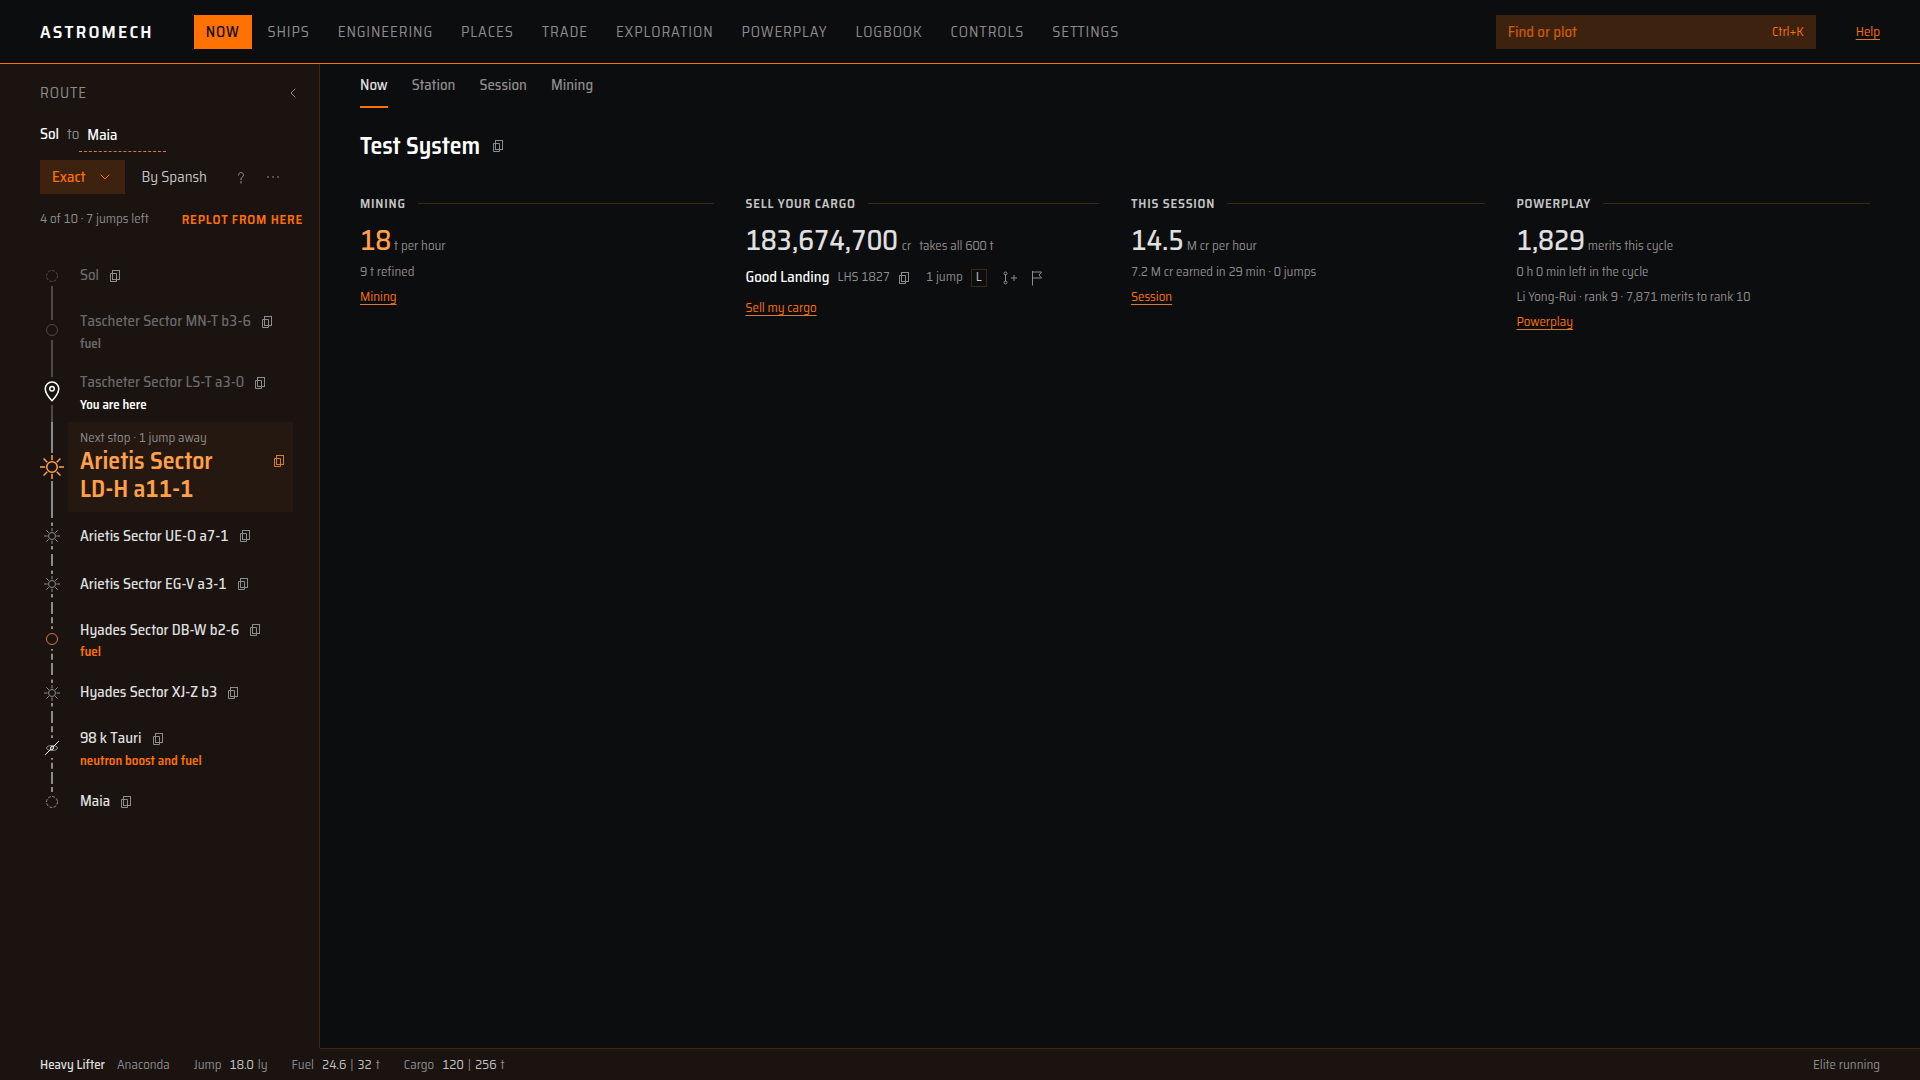
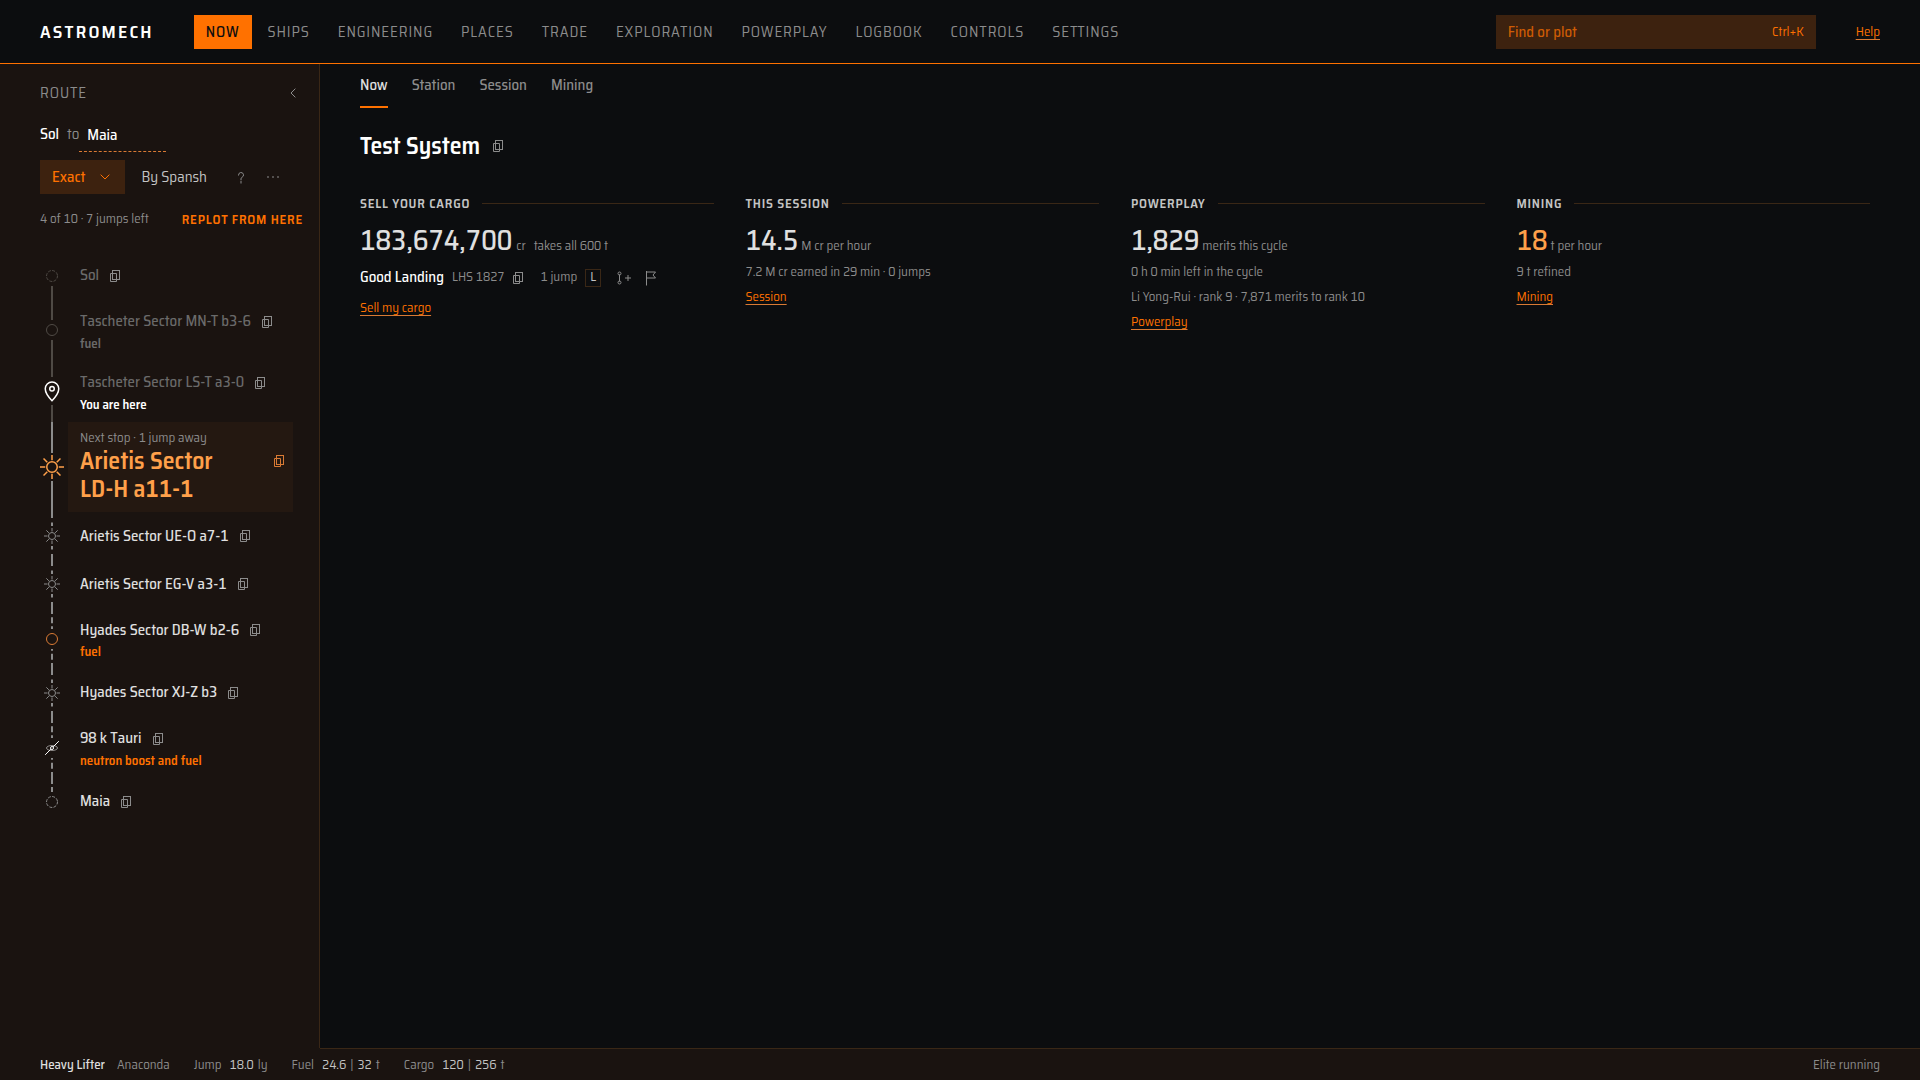
astromech-coq6: captures again with the blocks in order; Report

diff --git a/.atelier/items/astromech-coq6/item.md b/.atelier/items/astromech-coq6/item.md
@@ -82,13 +82,16 @@ Its files start outside `TOKENS_EXEMPT`; the moved Station, Session and Mining p
 - **Same answer as the finder:** it asks `trade_cargo` with the Sell my cargo finder's saved `trade.cargo` filters, so its station is that finder's first row.
 - **When it asks:** the change key is `saleKey()` in `lib/now.ts`, with the table test the item lists in `now.test.ts`. The block asks when it first draws and when the key differs from the last key *asked*, not the last answered. So a failed ask isn't repeated on every poll; TRY AGAIN repeats it.
 - **No double ask on opening:** the block waits until `docked_here` has answered once, so opening the page asks once.
+- **A missed frame read:** the page keeps the last answered status and ship, as its own polls keep theirs. So one failed `status` or `ship_status` read neither hides the blocks nor asks again. This was found in review and fixed test first.
+- **While it asks:** the old total drops Orange Lit and is Grey Dim, and the jump test checks that colour.
+- **Filters:** a failed read of the saved filters fails the ask, with TRY AGAIN. It doesn't fall back to defaults that would disagree with the finder.
 - **"takes" words:** they come from `takes()` in `lib/trade.ts`, which the finder's row now uses too, with its table test.
 - **No network:** the block shows the core's own words: "Could not ask Ardent Insight: Cannot reach Ardent Insight. Check your internet connection…".
 
 ### Main value and warning
 
 - **Orange Lit:** whether a block "shows" its figure means the figure is on screen. With no station in reach the sale has no total, so the session takes Orange Lit.
-- **Exploration data at risk:** "! 38.1 M cr of exploration data aboard, unsold. Dying loses all of it." with a link to System.
+- **Exploration data at risk:** "! 38.1 M cr of exploration data aboard, unsold. Dying loses all of it." with a link to System. No test or capture covers it: the recorded `exploration_unsold` has `risky: false`, and the test rules allow written replies only for Elite running and failures. I looked at it once at 1100 x 700, with a local change to the sample that I did not keep. It reads on one line, and the audit listed nothing.
 
 ### Station type icons (own commit, d66ee9fd)
 
@@ -107,7 +110,9 @@ Measured by bisecting the window width in the preview at each step. One row need
 
 ### Checks
 
-- **Results:** `pnpm check`, `pnpm lint` and `pnpm test` pass (93 files, 787 tests). So do the journeys (7) and `python3 scripts/check-guide.py`, and the fixture drift test after the dump.
+- **Results:** `pnpm check`, `pnpm lint` and `pnpm test` pass (93 files, 788 tests). So do the journeys (7), `python3 scripts/check-guide.py`, `pnpm build` with `scripts/check-dist.py`, `pnpm bridge-check`, and the fixture drift test after the dump.
+- **Order:** the blocks are in the item's order: Sell your cargo, This session, Powerplay, Mining.
+- **V1-DESIGN.md:** its navigation and its decision on the default screen now say the window opens on Now. The old decision is kept, marked as changed.
 - **Lint lists:** both page-sizing parts and the token check are on for `now/**` and `station/{Head,Board}.svelte`, confirmed with `eslint --print-config`. Station's `TOKENS_EXEMPT` entry is narrowed to `station/{View,Market}.svelte`.
 - **Browser tests:** in `now/View.browser.test.ts`. Each written reply only sets the failure, the empty `stations`, or holds the second answer back, which is the recorded answer released later.
 
@@ -122,5 +127,6 @@ Measured by bisecting the window width in the preview at each step. One row need
 ### Seen, not changed
 
 - **"0 h 0 min left in the cycle":** shown in the preview, on Powerplay too. The recorded world's clock is October, and the core works `week_ends` out from the current time (`astromech-powerplay` `standing.rs:217`), so live it shows the real time left.
+- **Audit tool:** `scripts/browser/audit.mjs` takes the repo root as three folders above the plan, so a plan has to sit at `docs/design/<name>/plan.json`.
 - **No Finish setup width:** Finish setup's width is not measured. The preview has no scenario with setup unfinished after onboarding, as astromech-5a01 found.
 
